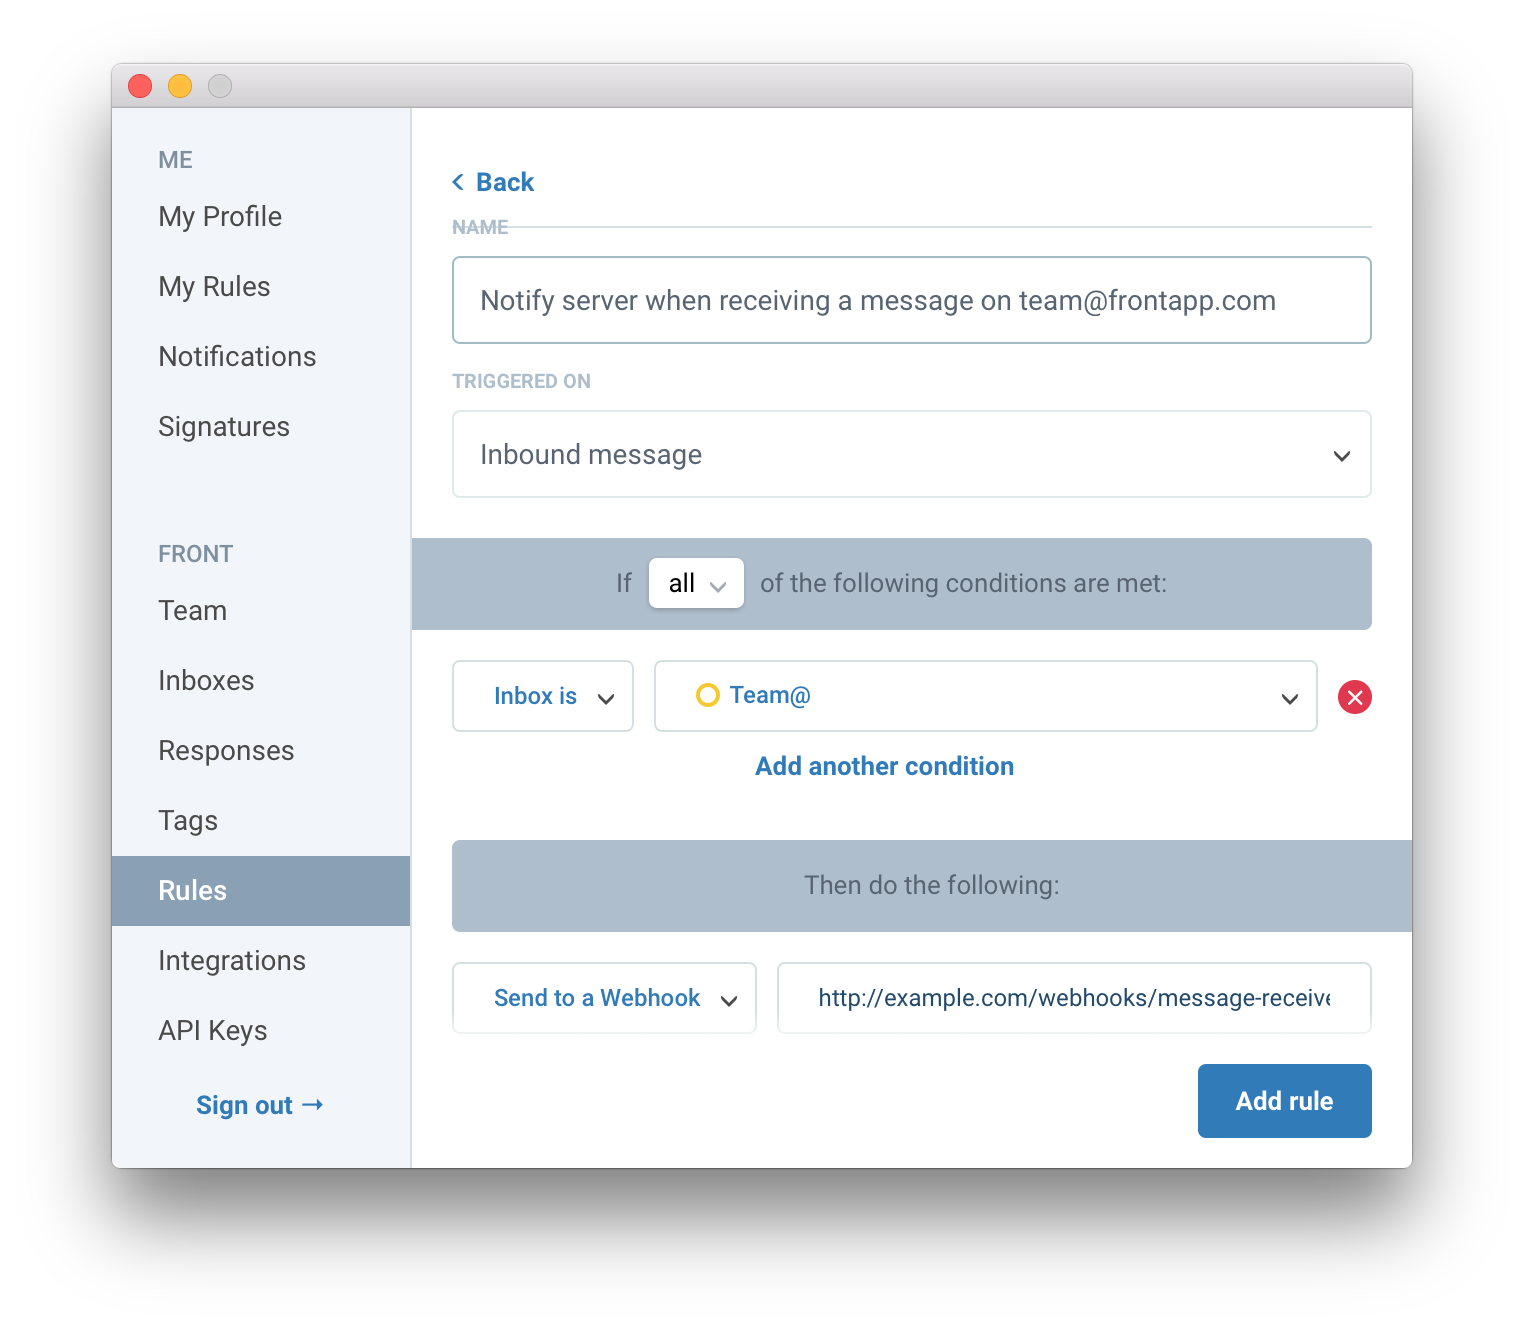
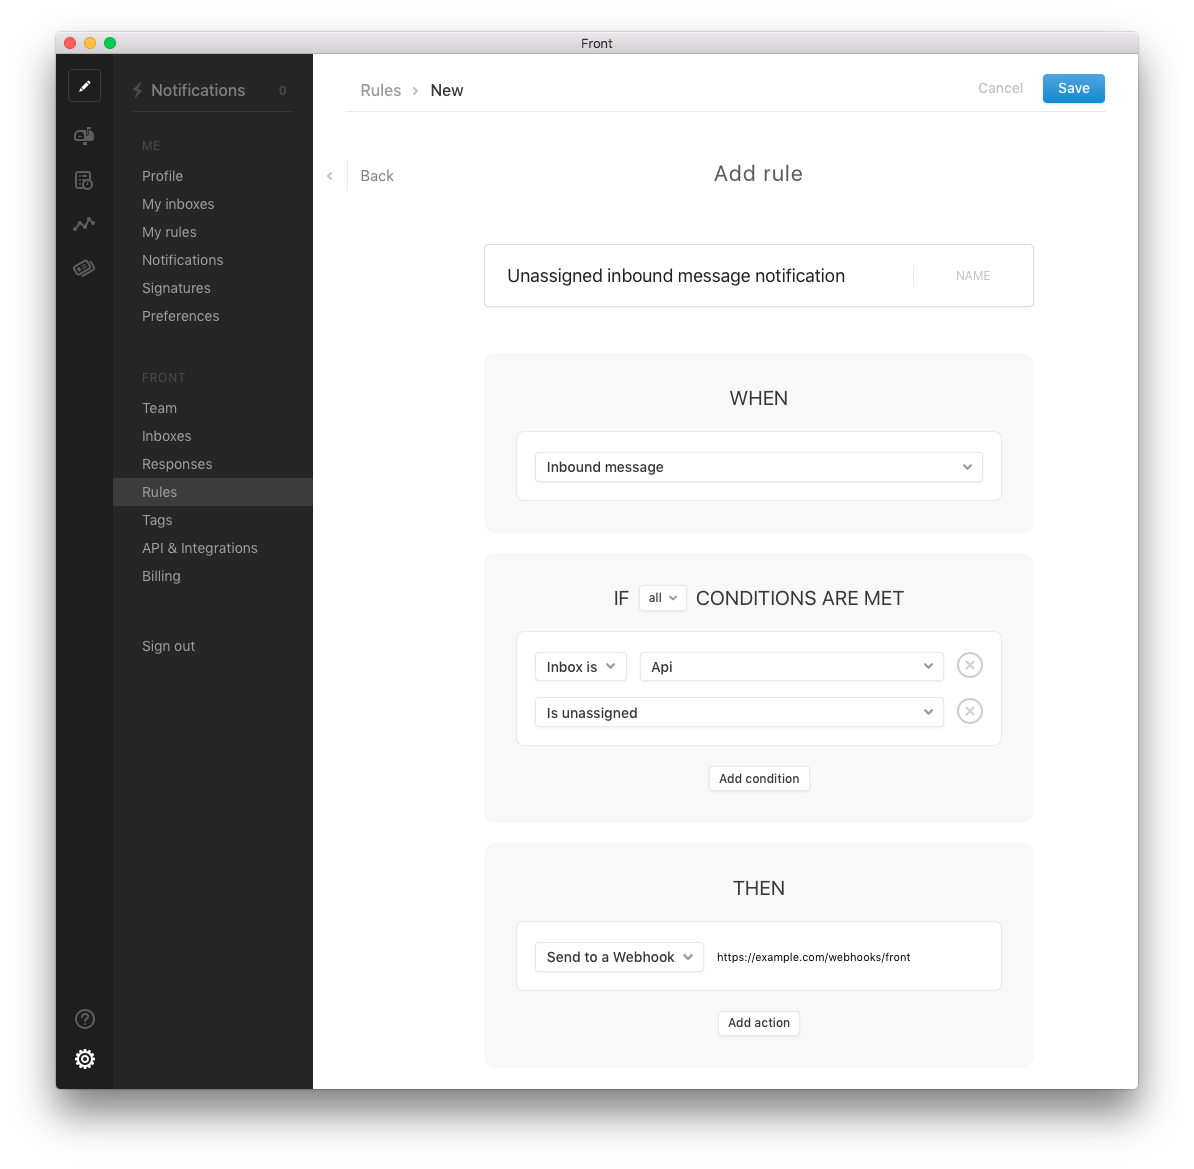
Update screenshot & directions to match the new designC

diff --git a/source/includes/_webhooks.md b/source/includes/_webhooks.md
@@ -1,10 +1,12 @@
 # Webhooks
 
-A webhook allows you to be dynamically notified when something happens in Front without having to constantly poll the API.
+A webhook allows you to be automatically notified when something happens in Front without having to constantly poll the API.
+
+## Setup
 
 To create a webhook, you need to:
 
-* Make sure that the Webhook integration is active (go to Settings > Integrations > Webhooks)
+* Make sure that the Webhook integration is active (go to Settings > API & Integrations > Integrations)
 ![Activate webhooks](webhook-activation.png)
 * Create a new rule with the conditions you want (go to Settings > Rules > New rule)
 ![Create a new webhook rule](webhook-rule.png)

diff --git a/source/index.html.md b/source/index.html.md
@@ -34,7 +34,7 @@ The API uses [JSON Web Token](https://tools.ietf.org/html/rfc7519) to authentica
 
 You **MUST** send the token for each request needing authentication in the **Authorization** header. The token **MUST** be preceeded by `Bearer `
 
-You can get your JSON web token directly from Front (go to Settings > API access).
+You can get your JSON web token directly from Front (go to Settings > API & Integrations > API).
 
 ## Limitations
 

diff --git a/source/includes/_endpoints.md b/source/includes/_endpoints.md
@@ -3845,6 +3845,8 @@ An event is created everytime something interesting is happenning in Front. You'
 | `reminder`        | When a conversation is unarchived by a reminder       |
 | `out_reply`       | When areply is sent                                   |
 
+### Event preview
+
 > *Example:*
 > Event preview of a rule assigning a conversation to a teammate:
 

diff --git a/source/includes/_custom_channels.md b/source/includes/_custom_channels.md
@@ -6,7 +6,7 @@ You can use custom channels to integrate Front with platforms that are not offic
 ## Create a custom channel
 
 * Go to Settings > Inboxes
-* Click on "Create an inbox" and choose the **Custom** type
+* Click on "Add an inbox" and choose the **Custom** type
 * Choose a name for your inbox
 * Define a callback URL
 
